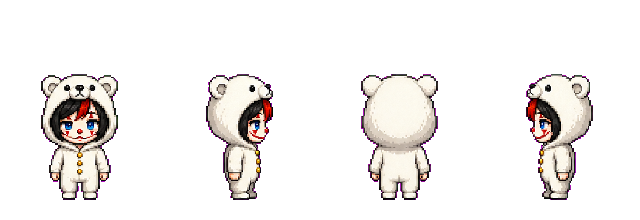
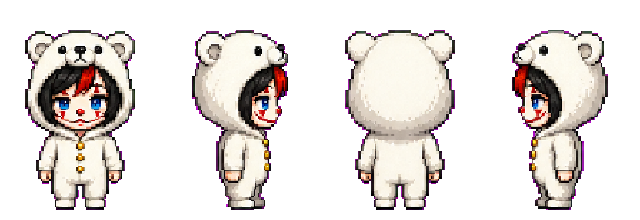
fix(temple-play): normalize npc scale and idle nxr guide

diff --git a/src/pages/TemplePlay.tsx b/src/pages/TemplePlay.tsx
@@ -2072,6 +2072,14 @@ function drawMiniBubble(ctx: CanvasRenderingContext2D, x: number, y: number, tex
 
 function questNpcMotion(quest: QuestNpc, time: number) {
   const phase = time + quest.id * 0.83
+  if (quest.sprite === 'nxr') {
+    return {
+      x: quest.x,
+      y: quest.y,
+      moving: false,
+      direction: 'down' as const,
+    }
+  }
   if (quest.id % 3 === 0) {
     return {
       x: quest.x + Math.sin(phase * 1.2) * 3,
